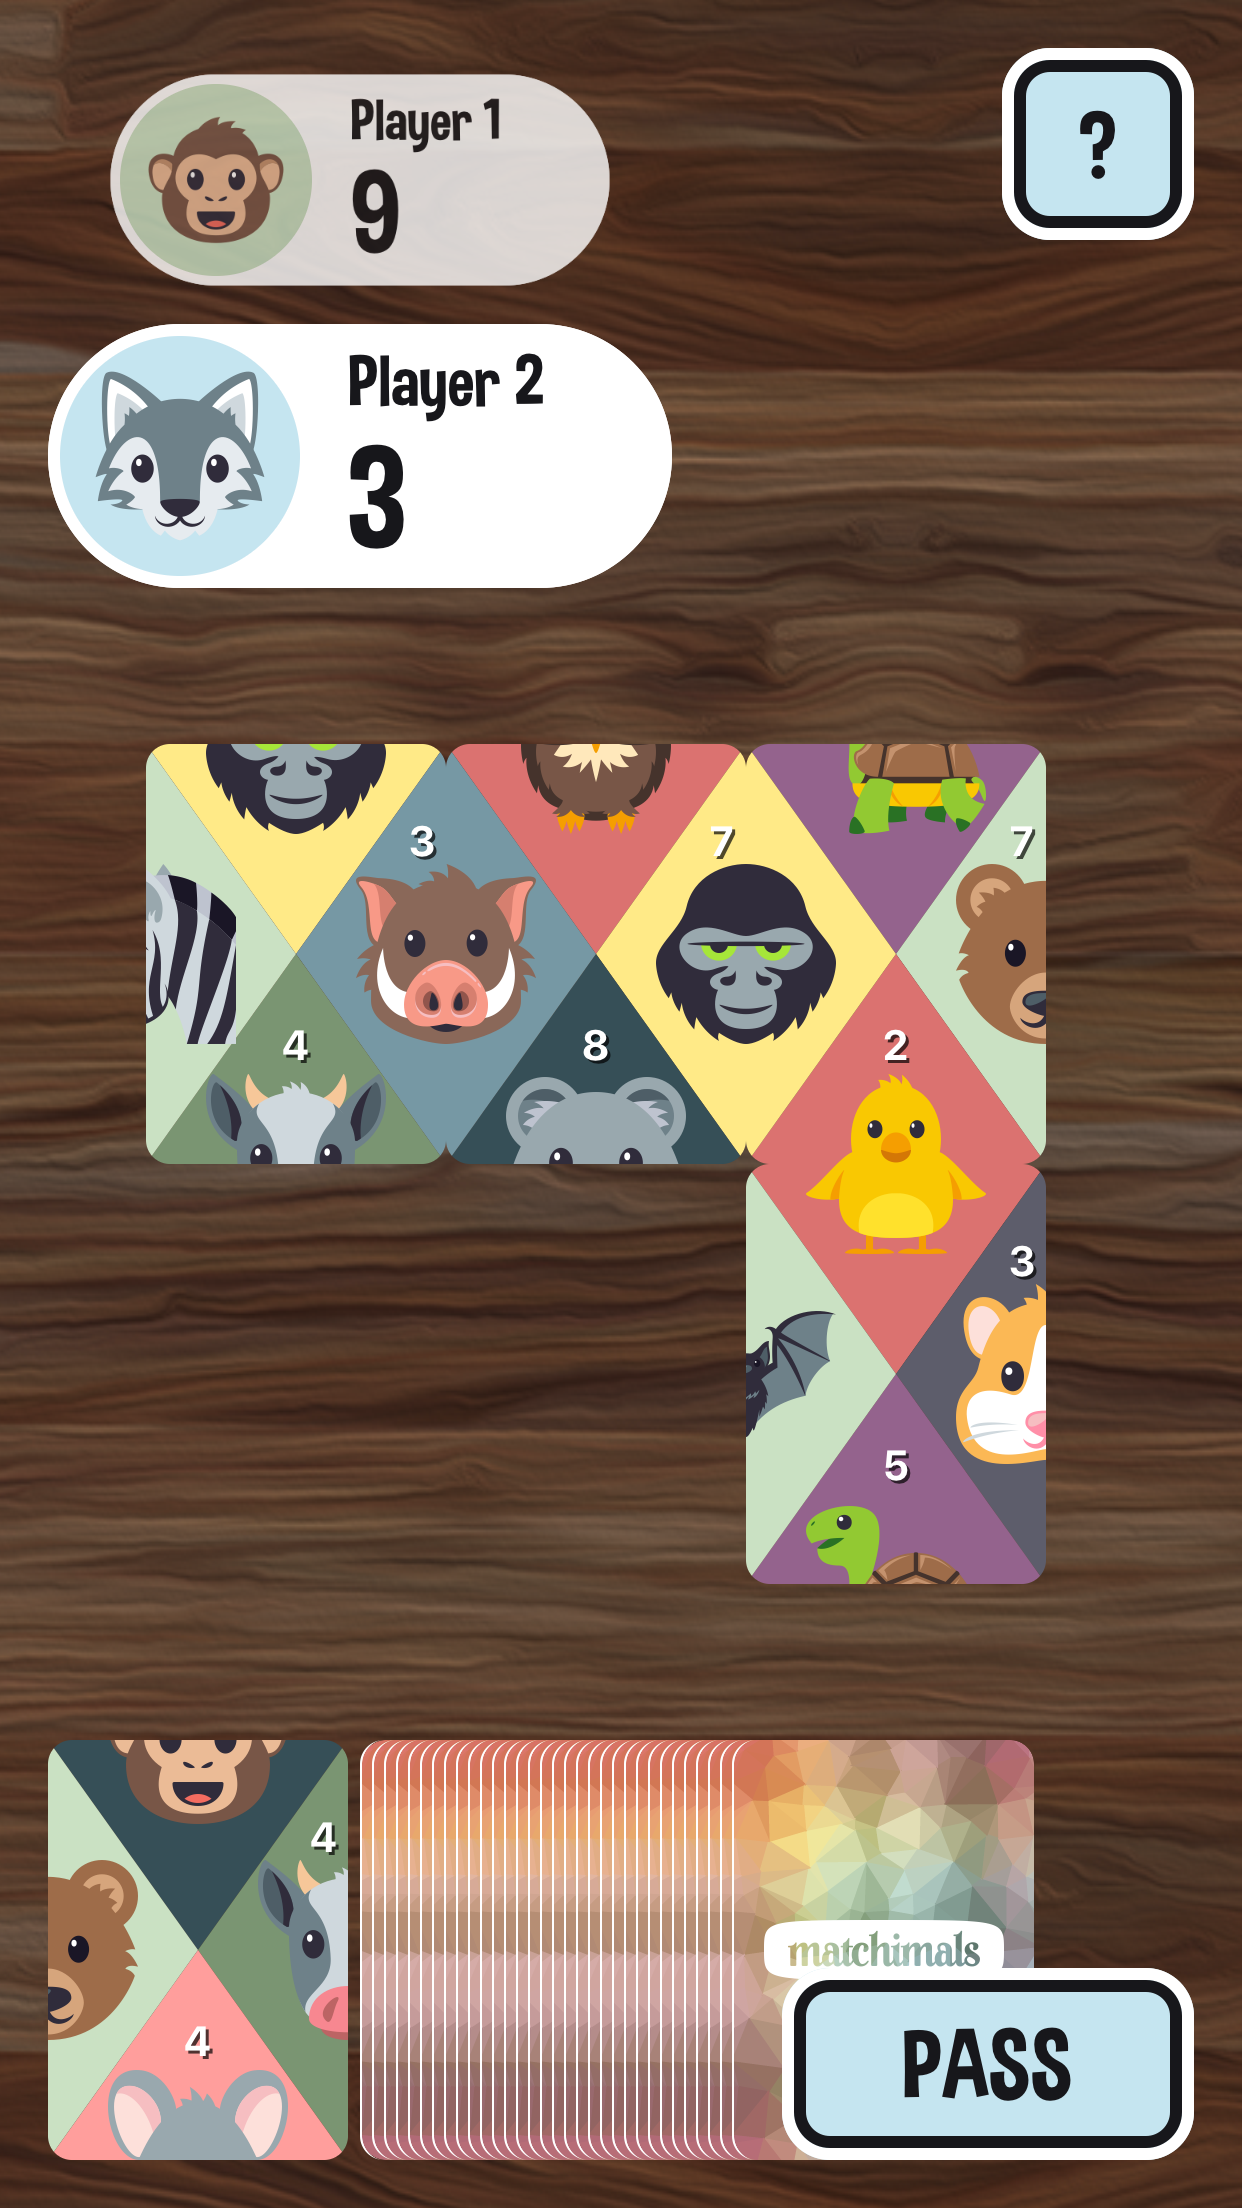
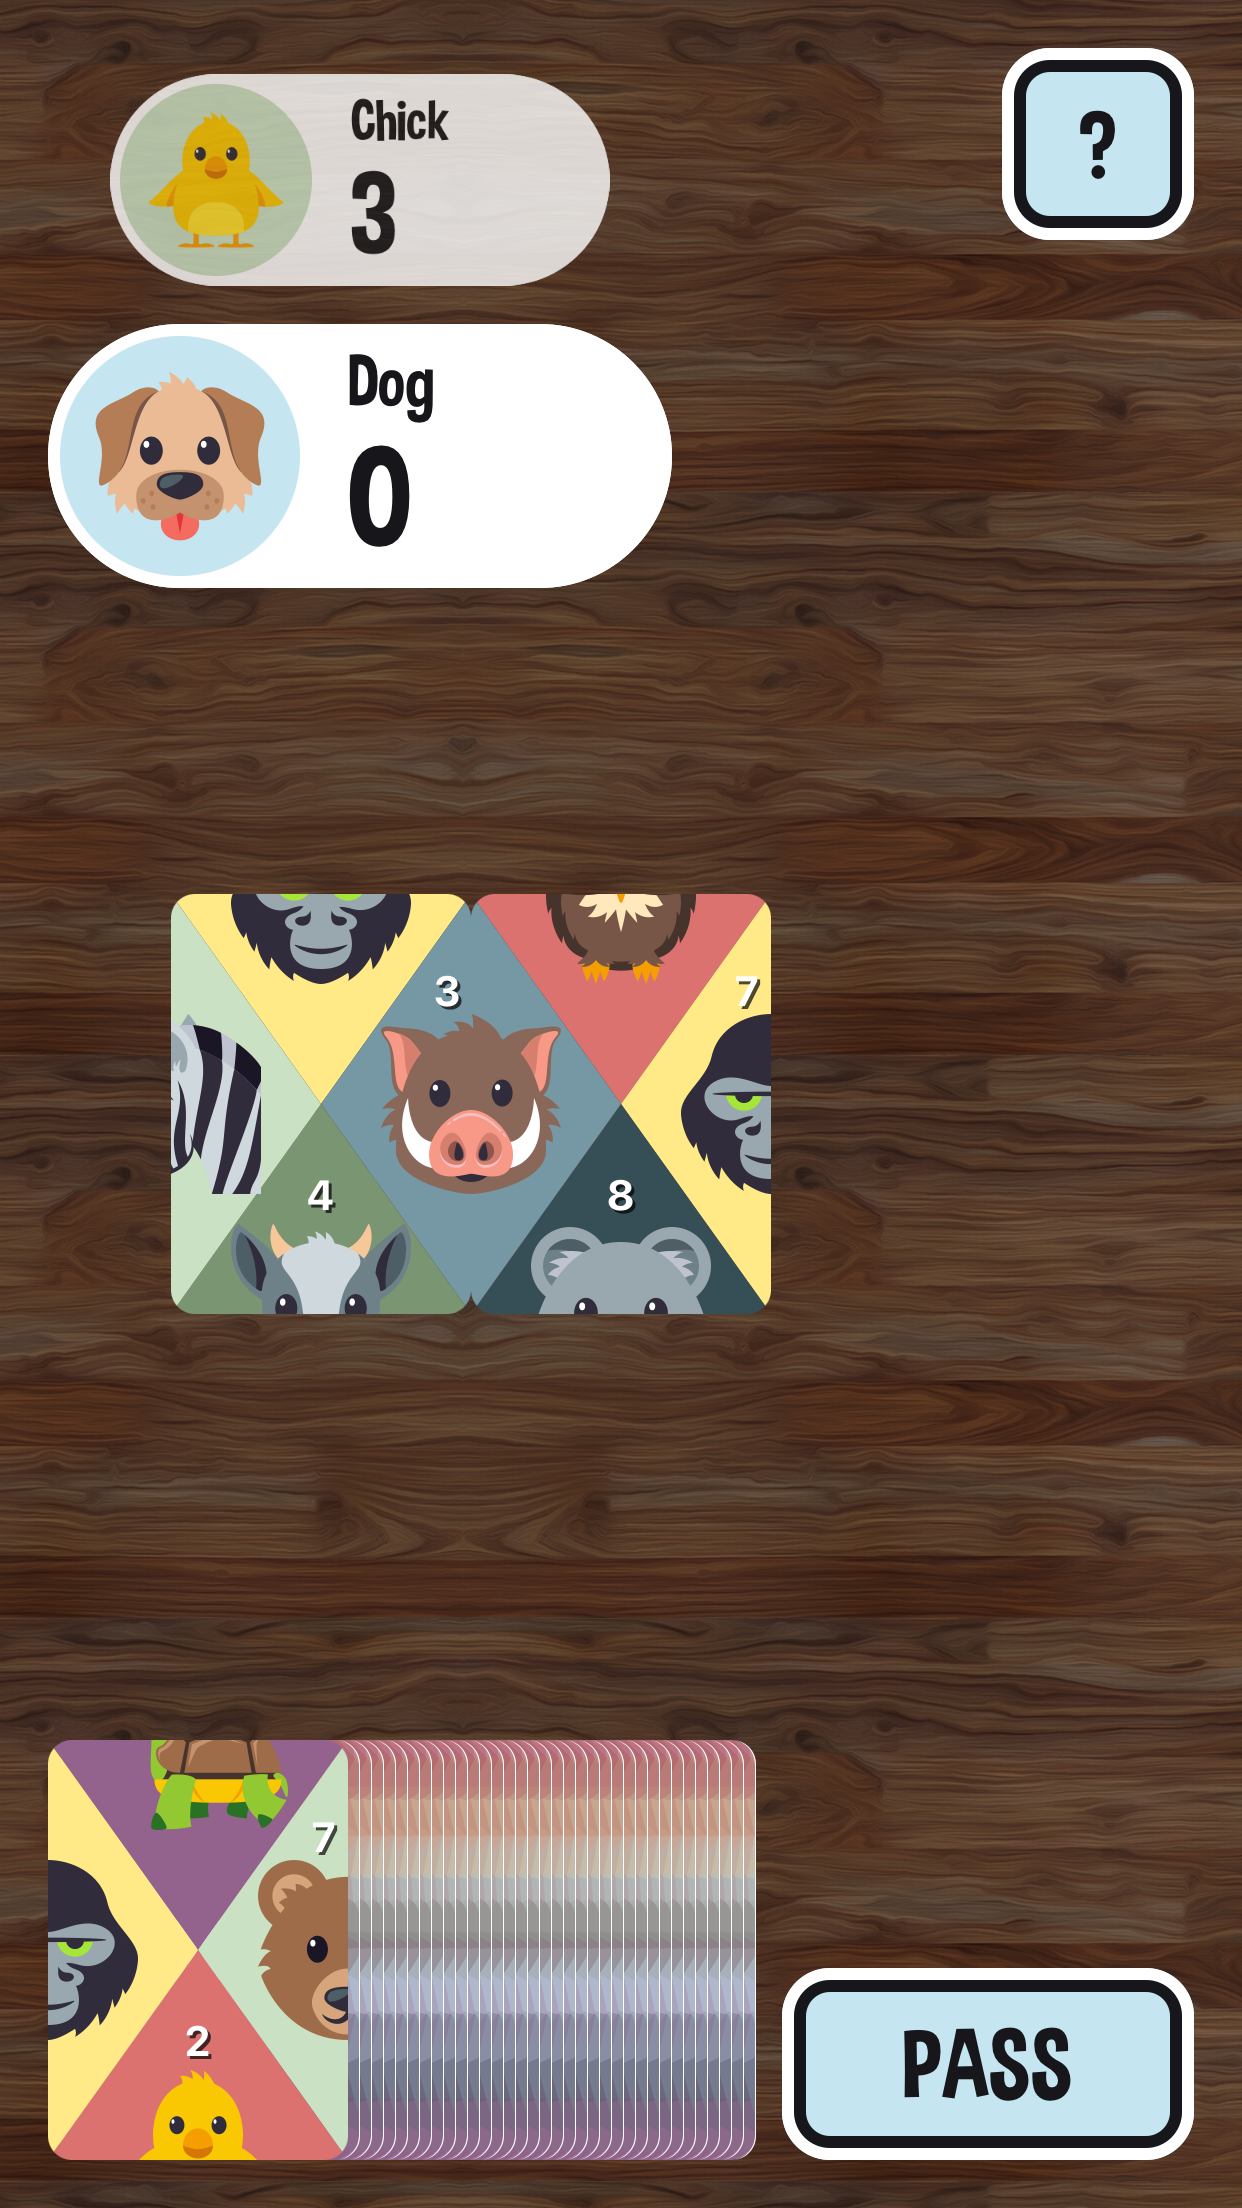
Update screenshots for website and readme

diff --git a/src/Menu/index.js b/src/Menu/index.js
@@ -1,7 +1,7 @@
 import React from "react";
 import { Platform } from "react-native";
 
-// import { DevTools } from "./DevTools";
+import { DevTools } from "./DevTools";
 import colors from "../constants/colors";
 import Button from "../Button";
 import Dialog from "../Dialog";
@@ -52,7 +52,7 @@ const Menu = ({
         BACK TO GAME
       </Button>
 
-      {/* <DevTools moves={moves} /> */}
+      <DevTools moves={moves} />
     </Dialog>
   );
 };

diff --git a/README.md b/README.md
@@ -8,9 +8,9 @@
 
 #### [🤖 Download for Android from the Google Play Store](https://play.google.com/store/apps/details?id=com.matchimals)
 
-#### [🖥 Play the legacy web version](https://www.matchimals.fun/)
+#### [🖥 Play on desktop on the web](https://www.matchimals.fun/)
 
-<img src="./public/screenshots/Simulator Screen Shot - iPad Pro (12.9-inch) (3rd generation) - 6.png" alt="screenshot of matchimals.fun game" />
+<img src="./public/screenshots/screenshot-optimized.png" alt="screenshot of matchimals.fun game" />
 
 ## How to play
 
